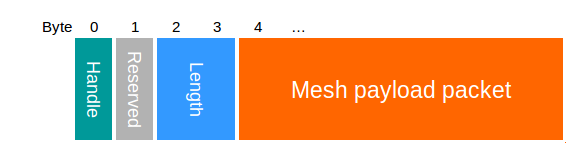
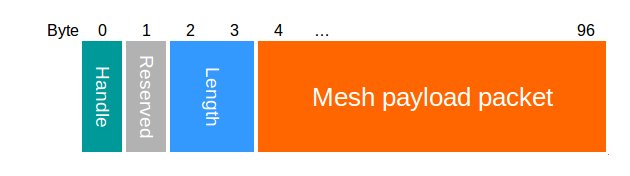
updated protocol with new mesh

diff --git a/docs/PROTOCOL.md b/docs/PROTOCOL.md
@@ -182,7 +182,7 @@ The crownstone service has UUID 24f00000-7d10-4805-bfc1-7663a01c3bff and provide
 Characteristic | UUID | Date type | Description | A | U | G
 --- | --- | --- | --- | :---: | :---: | :---:
 Control        | 24f00001-7d10-4805-bfc1-7663a01c3bff | [Control packet](#control_packet) | Write a command to the control characteristic | x | x | x
-Mesh control   | 24f00002-7d10-4805-bfc1-7663a01c3bff | [Mesh control packet](#mesh_control_packet) | Write a command to the mesh control characteristic to send into the mesh | x | x |
+<a name="mesh_control_characteristic"></a>Mesh control   | 24f00002-7d10-4805-bfc1-7663a01c3bff | [Mesh control packet](#mesh_control_packet) | Write a command to the mesh control characteristic to send into the mesh | x | x |
 Config control | 24f00004-7d10-4805-bfc1-7663a01c3bff | [Config packet](#config_packet) | Write or select a config setting | x |
 Config read    | 24f00005-7d10-4805-bfc1-7663a01c3bff | [Config packet](#config_packet) | Read or Notify on a previously selected config setting | x |
 State control  | 24f00006-7d10-4805-bfc1-7663a01c3bff | [State packet](#state_packet) | Select a state variable | x | x |
@@ -196,7 +196,7 @@ If you lose your encryption keys you can use this characteristic to factory rese
 This method is only available for 20 seconds after the Crownstone powers on.
 You need to write **0xDEADBEEF** to it. After this, the Crownstone disconnects and goes into Low TX mode so you'll have to be close to continue the factory reset. After this, you reconnect and write **0xDEADBEEF** again to this characteristic to factory reset the Crownstone.
 
-##### Return values
+##### <a name="return_values"></a>Return values
 The control characteristics (Control, Mesh Control, Config Control and State Control) of the Crownstone service return a uint16 code on execution of the command.
 The code determines success or failure of the command. If commands have to be executed sequentially, make sure that the return value of the previous command
 was received before calling the next (either by polling or subscribing). The possible values of the return values are listed in the table below
@@ -208,6 +208,7 @@ Value | Name | Description
 2 | WRONG_PAYLOAD_LENGTH | wrong payload lenght provided
 3 | UNKNOWN_OP_CODE | unknown operation code, e.g. notify for config read
 5 | BUFFER_LOCKED | buffer is locked, failed queue command
+6 | BUFFER_TOO_SMALL | buffer is too small to execute command
 256 | COMMAND_NOT_FOUND | command type not found
 257 | NOT_AVAILABLE | command not available in this mode
 258 | WRONG_PARAMETER | wrong parameter provided
@@ -621,58 +622,10 @@ Type | Name | Length | Description
 uint 8 | Size | 1 | Number of entries in the list.
 [schedule entry](#schedule_entry_packet) | Entries | 12 | Schedule entry list.
 
-
-### <a name="mesh_control_packet"></a>Mesh control packet
-
-![Mesh control packet](../docs/diagrams/mesh-control-packet.png)
-
-Type | Name | Length | Description
---- | --- | --- | ---
-uint 8 | Handle | 1 | Handle on which to send the message.
-uint 8 | Reserved | 1 | Not used: reserved for alignment.
-uint 16 | Length | 2 | Length of the data.
-[Mesh Payload](#mesh_payload_packet) | Payload | Length | Payload data.
-
-
-### <a name="mesh_payload_packet"></a>Mesh payload packet
-
-![Mesh payload packet](../docs/diagrams/mesh-payload-packet.png)
-
-Type | Name | Length | Description
---- | --- | --- | ---
-uint 16 | Target Crownstone ID | 2 | Crownstone Identifier of the device at which this message is aimed at, all 0 for any device.
-uint 16 | Reason | 2 | ...
-uint 16 | User ID | 2 | ...
-uint 16 | Type | 2 | Type of message, see table below.
-uint 8 [] | Payload | 0 to 91 | Payload data, depends on type.
-
-Type nr | Type name | Payload type | Payload description
---- | --- | --- | ---
-0 | Command | [Control](#control_packet) | Send a command over the mesh, see control packet
-1 | Beacon | [Beacon data](#beacon_mesh_data_packet) | Configure the iBeacon settings.
-2 | Config | [Configuration](#config_packet) | Send/Request a configuration setting, see configuration packet
-3 | State | [State](#state_packet) | Send/Request a state variable, see state packet
-101 | Scan result | [Scan result list](#scan_result_list_packet) | List of scanned devices.
-103 | Power Samples | [Power samples](#power_samples_packet) | List of power samples.
-104 | Event | uint 16 | Event type that happened.
-
-
-### <a name="beacon_mesh_data_packet"></a>Beacon mesh data packet
-
-![Beacon data](../docs/diagrams/beacon-mesh-message-data-packet.png)
-
-Type | Name | Length | Description
---- | --- | --- | ---
-uint 16 | Major | 1 |
-uint 16 | Minor | 1 |
-uint 8 | Proximity UUID | 16 |
-int 8 | TX Power | 1 | Received signal strength at 1 meter.
-
-
-### <a name="mesh_message_packet"></a>Mesh message packet
+### <a name="mesh_message_packet"></a>Mesh message
 This packet is a slightly modified version of the one used in [OpenMesh](https://github.com/NordicSemiconductor/nRF51-ble-bcast-mesh); we simply increased the content size.
 
-![Mesh packet](../docs/diagrams/mesh-packet.png)
+![Mesh packet](../docs/diagrams/openmesh-packet.png)
 
 Type | Name | Length | Description
 --- | --- | --- | ---
@@ -686,9 +639,202 @@ uint 8 | AD type | 1 |
 uint 16 | Service UUID | 2 | Mesh service UUID.
 uint 16 | Handle | 2 | Handle of this message.
 uint 16 | Version | 2 | Used internally.
-[Mesh Payload](#mesh_payload_packet) | Payload | 99 | Payload data.
+[Encrypted mesh packet](#encrypted_mesh_packet) | Payload | 100 | The encrypted mesh message.
 uint 8 [] | CRC | 3 | Checksum.
 
+### <a name="encrypted_mesh_packet"></a>Encrypted mesh packet
+
+This packet is sent over the mesh as payload in the mesh message.
+
+![Encrypted mesh message](../docs/diagrams/encrypted-mesh-packet.png)
+
+Type | Name | Length | Description
+--- | --- | --- | ---
+uint 32 | Message counter | 4 | The message counter used to identify the message. Counter values are kept up seperately per handle. Note: This value is in plain text (unencrypted)
+[Mesh packet](#mesh-packet) | Encrypted payload | 96 | The encrypted mesh packet.
+
+### <a name="mesh-packet"></a>Mesh packet
+
+This packet is encrypted and sent as payload in the encrypted mesh packet.
+
+![Mesh message](../docs/diagrams/mesh-packet.png)
+
+Type | Name | Length | Description
+--- | --- | --- | ---
+uint 32 | Message counter | 4 | The message counter used to identify the message. Counter values are kept up seperately per handle. Note: This value will be compared after decryption to the message counter of the encrypted mesh message to make sure the message was not tampered with.
+[Mesh Payload](#mesh_payload_packet) | Payload | 92 | Payload data
+
+### <a name="mesh_control_packet"></a>Mesh control packet
+
+This packet is sent to the [Mesh control characteristic](#mesh_control_characteristic)
+
+![Mesh control packet](../docs/diagrams/mesh-control-packet.png)
+
+Type | Name | Length | Description
+--- | --- | --- | ---
+uint 8 | Handle | 1 | Handle on which to send the message.
+uint 8 | Reserved | 1 | Not used: reserved for alignment.
+uint 16 | Length | 2 | Length of the data.
+[Mesh Payload](#mesh_payload_packet) | Payload | 0 - 92 | Payload data, max 92 bytes, but actual length is determined by the handle
+
+### <a name="mesh_payload_packet"></a>Mesh payload packet
+
+The mesh payload packet is defined by the handle. We have the following handles
+
+Handle | Name | Type | Description
+--- | --- | --- | ---
+1 | Keep Alive Channel | [Keep Alive](#keep_alive_mesh_packet) | Channel on which the keep alive messages are sent. A message consists of a global timeout and a number of keep alive items (on per stone which is addressed)
+2 | State Broadcast Channel | [State](#state_mesh_packet) | Each stone sends it's state periodically over the mesh. The message is designed as a circular buffer and a new item is added at the end (throwing out the oldest if full)
+3 | State Change Channel | [State](#state_mesh_packet) | Each stone sends its' state on this channel if the state changes significantly, e.g. switch state changes.
+4 | Command Channel | [Command](#command_mesh_packet) | Commands can be sent to one, multiple or all stones sharing the mesh network. Once a stone receives a command it will send a reply on the reply channel
+5 | Command Reply Channel | [Command Reply](#command_reply_packet) | Every stone that was targeted with a command adds its reply to the reply message.
+6 | Scan Result Channel | [Scan Result](#scan_result_packet) | If a stone is scanning for devices it adds it's scanned devices periodically to this list to be sent over the mesh
+7 | Big Data Channel | - | This channel is for the case when a stone needs to send big data, such as the history of eneregy usage, etc.
+
+#### <a name="keep_alive_mesh_packet"></a>Keep Alive packet
+
+![Keep Alive packet](../docs/diagrams/keep-alive-mesh-packet.png)
+
+Type | Name | Length | Description
+--- | --- | --- | ---
+uint 16 | Timeout | 2 | Timeout (in seconds), applies to all stones present in the list
+uint 8 | Size | 1 | Number of Keep Alive items in the list
+[Keep Alive item](#keep_alive_mesh_item) [] | List | N | The Keep Alive items are defined as Crownstone Identifier and a combined action + switch state
+
+##### <a name="keep_alive_mesh_item"></a>Keep Alive Item
+
+Type | Name | Length | Description
+--- | --- | --- | ---
+uint 16 | Crownstone ID | 2 | The identifier of the crownstone to which this keep alive item is targeted
+[Action + Switch State](#action_switch_state_keep_alive) | Action + Switch State | 1 | A combined element for action and switch state, which should be executed by the targeted crownstone when the keep alive times out
+
+##### <a name="action_switch_state_keep_alive"></a>Action + Switch State
+
+Value | Name
+--- | ---
+255 | No Action
+... | ...
+default | see [Switch State](#switch_state_packet)
+
+#### <a name="state_mesh_packet"></a>Crownstone State Packet
+
+![Crownstone State packet](../docs/diagrams/state-mesh-packet.png)
+
+Type | Name | Length | Description
+--- | --- | --- | ---
+uint 8 | Head | 1 | Keeps the index of the oldest element in the list (read pointer)
+uint 8 | Tail | 1 | Keeps the index where the next element can be inserted in the list (write pointer)
+uint 8 | Size | 1 | Number of elements in the list
+[Crownstone State item](#state_mesh_item) [] | List | N | Circular list with Crownstone state items
+
+##### <a name="state_mesh_item"></a>Crownstone State Item
+
+Type | Name | Length | Description
+--- | --- | --- | ---
+uint 16 | Crownstone ID | 2 | The identifier of the crownstone which has this state
+uint 8 | Switch State | 1 | The current [Switch State](#switch_state_packet) of the crownstone
+int 32 | Power Usage | 4 | The current power usage of the crownstone (mW)
+int 32 | Accumulated Energy | 4 | The accumulated energy since setup (Wh)
+
+#### <a name="command_mesh_packet"></a>Command Packet
+
+![Command packet](../docs/diagrams/command-mesh-packet.png)
+
+Type | Name | Length | Description
+--- | --- | --- | ---
+uint 16 | [Command Type](#mesh_command_types) | 2 | Type of command, see table below.
+uint 8 | Number of IDs | 1 | The number of IDs provided as targets, 0 for broadcast
+uint16 [] | List of target IDs | Number of IDs | Crownstone Identifiers of the devices at which this message is aimed, for broadcast, no IDs are provided and the command follows directly after the Number of IDs element
+uint 8 | Command payload | N | The command payload data, which depends on the message type
+
+##### <a name="mesh_command_types"></a>Command Types
+
+Type nr | Type name | Payload type | Payload description
+--- | --- | --- | ---
+0 | Control | [Control](#control_packet) | Send a control command over the mesh, see control packet
+1 | Beacon | [Beacon Config](#beacon_mesh_data_packet) | Configure the iBeacon settings.
+2 | Config | [Configuration](#config_packet) | Send/Request a configuration setting, see configuration packet
+3 | State | [State](#state_packet) | Send/Request a state variable, see state packet
+
+##### <a name="beacon_mesh_data_packet"></a>Beacon config packet
+
+![Beacon data](../docs/diagrams/beacon-config-command-packet.png)
+
+Type | Name | Length | Description
+--- | --- | --- | ---
+uint 16 | Major | 1 |
+uint 16 | Minor | 1 |
+uint 8 | Proximity UUID | 16 |
+int 8 | TX Power | 1 | Received signal strength at 1 meter.
+
+#### <a name="command_reply_mesh_packet"></a>Command Reply packet
+
+![Command Reply packet](../docs/diagrams/command-reply-mesh-packet.png)
+
+Type | Name | Length | Description
+--- | --- | --- | ---
+uint 16 | [Reply Type](#mesh_reply_types) | 2 | Type of reply, see table below
+uint 32 | Message Counter | 4 | The message number of the command to which this reply belongs
+uint 8 | Number of Replies | 1 | Number of reply items in the list
+uint 8 | List of Replies | 85 | List of replies, the format is defined by the type of reply
+
+##### <a name="mesh_reply_types"></a>Reply Types
+
+Type nr | Type name | Payload type | Payload description
+--- | --- | --- | ---
+0 | Status Reply | [Status Reply](#mesh_status_reply) | Send a status code back, used to report errors. And to report success for control and config write commands.
+1 | Config Reply | [Config Reply](#mesh_config_reply) | Return the requested config.
+2 | State Reply | [State Reply](#mesh_state_reply) | Return the requested state variable.
+
+###### <a name="mesh_status_reply"></a>Status Reply
+
+![Status reply item](../docs/diagrams/mesh-status-reply-item.png)
+
+Type | Name | Length | Description
+--- | --- | --- | ---
+uint 16 | Crownstone ID | 2 | The identifier of the crownstone which sent the status reply
+uint 16 | Status | 2 | The status code of the reply, see [Return Values](#return_values)
+
+###### <a name="mesh_config_reply"></a>Config Reply
+
+![Config reply item](../docs/diagrams/mesh-config-reply-item.png)
+
+Type | Name | Length | Description
+--- | --- | --- | ---
+uint 16 | Crownstone ID | 2 | The identifier of the crownstone which sent the status reply
+uint 8 | Type | 1 | see [Configuration Packet](#config_packet)
+uint 8 | OpCode | 1 | see [Configuration Packet](#config_packet)
+uint 16 | Length | 2 | see [Configuration Packet](#config_packet)
+uint 8 | Payload | Length | see [Configuration Packet](#config_packet)
+
+###### <a name="mesh_state_reply"></a>State Reply
+
+![State Reply packet](../docs/diagrams/mesh-state-reply-item.png)
+
+Type | Name | Length | Description
+--- | --- | --- | ---
+uint 16 | Crownstone ID | 2 | The identifier of the crownstone which sent the status reply
+uint 8 | Type | 1 | see [State Packet](#state_packet)
+uint 8 | OpCode | 1 | see [State Packet](#state_packet)
+uint 16 | Length | 2 | see [State Packet](#state_packet)
+uint 8 | Payload | Length | see [State Packet](#state_packet)
+
+#### <a name="scan_result_mesh_packet"></a>Scan Result packet
+
+![Scan Result packet](../docs/diagrams/scan-result-mesh-packet.png)
+
+Type | Name | Length | Description
+--- | --- | --- | ---
+uint 8 | Number of Results | 1 | Number of Scan results in the list
+[Scan Result item](#scan_result_item) [] | List | Number of Results | A list of scanned devices with the ID of the crownstone that scanned the device
+
+##### <a name="mesh_scan_result_item"></a>Scan Result item
+
+Type | Name | Length | Description
+--- | --- | --- | ---
+uint 16 | Crownstone ID | 2 | The identifier of the Crownstone which scanned the device
+uint 8 [6] | Scanned device address | 6 | The MAC address of the scanned device
+int 8 | RSSI | 1 | The averaged RSSI value of the scanned device
 
 ### <a name="mesh_notification_packet"></a>Mesh notification packet
 This packet is used to get the [mesh messages](#mesh_message_packet) pushed over GATT notifications.
@@ -710,7 +856,6 @@ Opcode | Type name | Payload type | Payload Description
 32 | MultipartStart | [Mesh data update](#mesh_data_update_packet) | First part of the multi part notification.
 33 | MultipartMid | [Mesh data update](#mesh_data_update_packet) | Middle part of the multi part notification.
 34 | MultipartEnd | [Mesh data update](#mesh_data_update_packet) | Last part of the multi part notification.
-
 
 ### <a name="mesh_data_update_packet"></a>Mesh data update packet
 Each mesh data message is notified in multiple pieces, as a notification can only be 20 bytes. The op code of the [Mesh notification](#mesh_notification_packet) tells whether it is a single, or the first, last or a middle piece of a multipart message.
